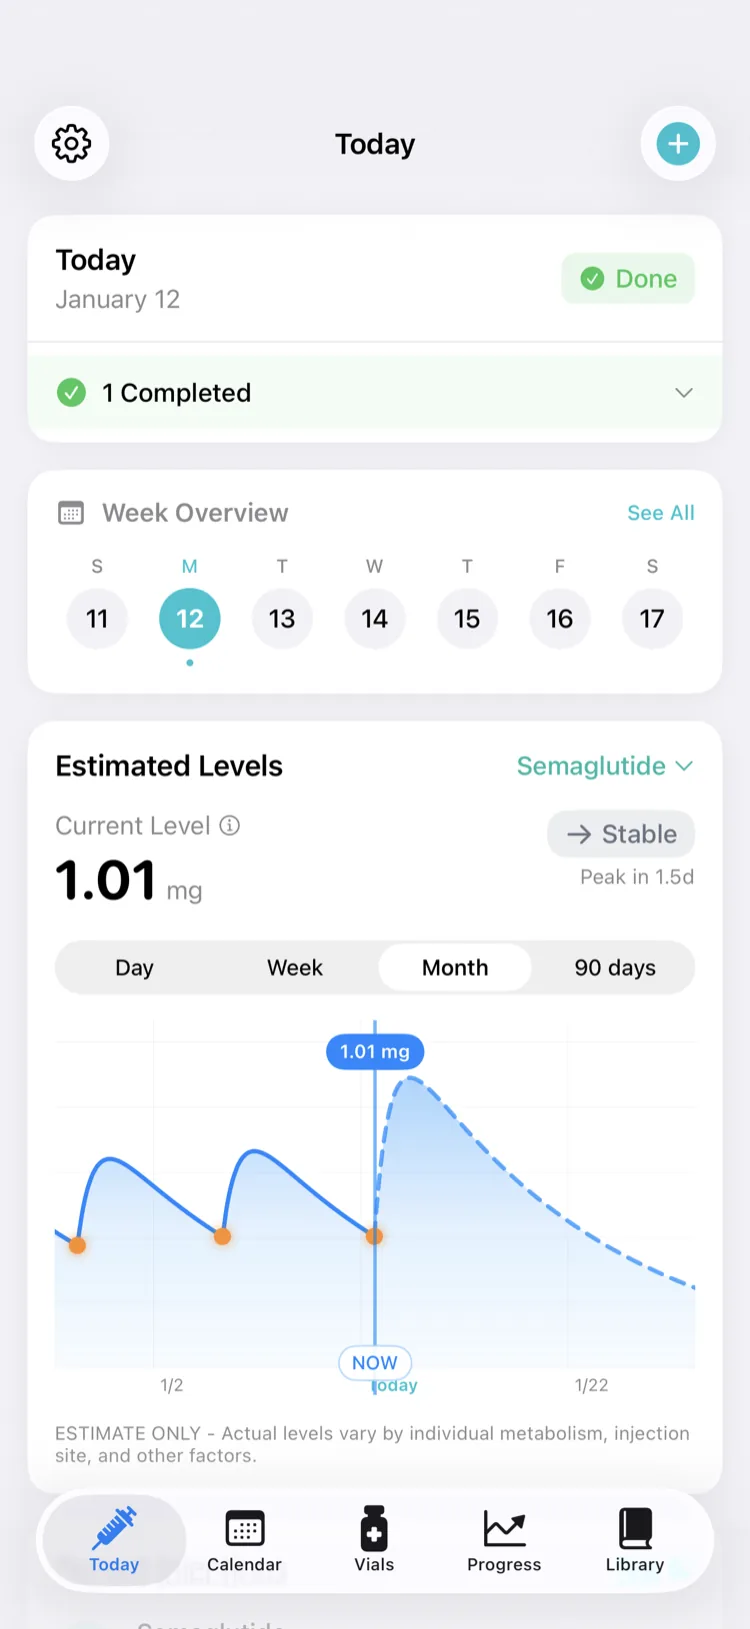
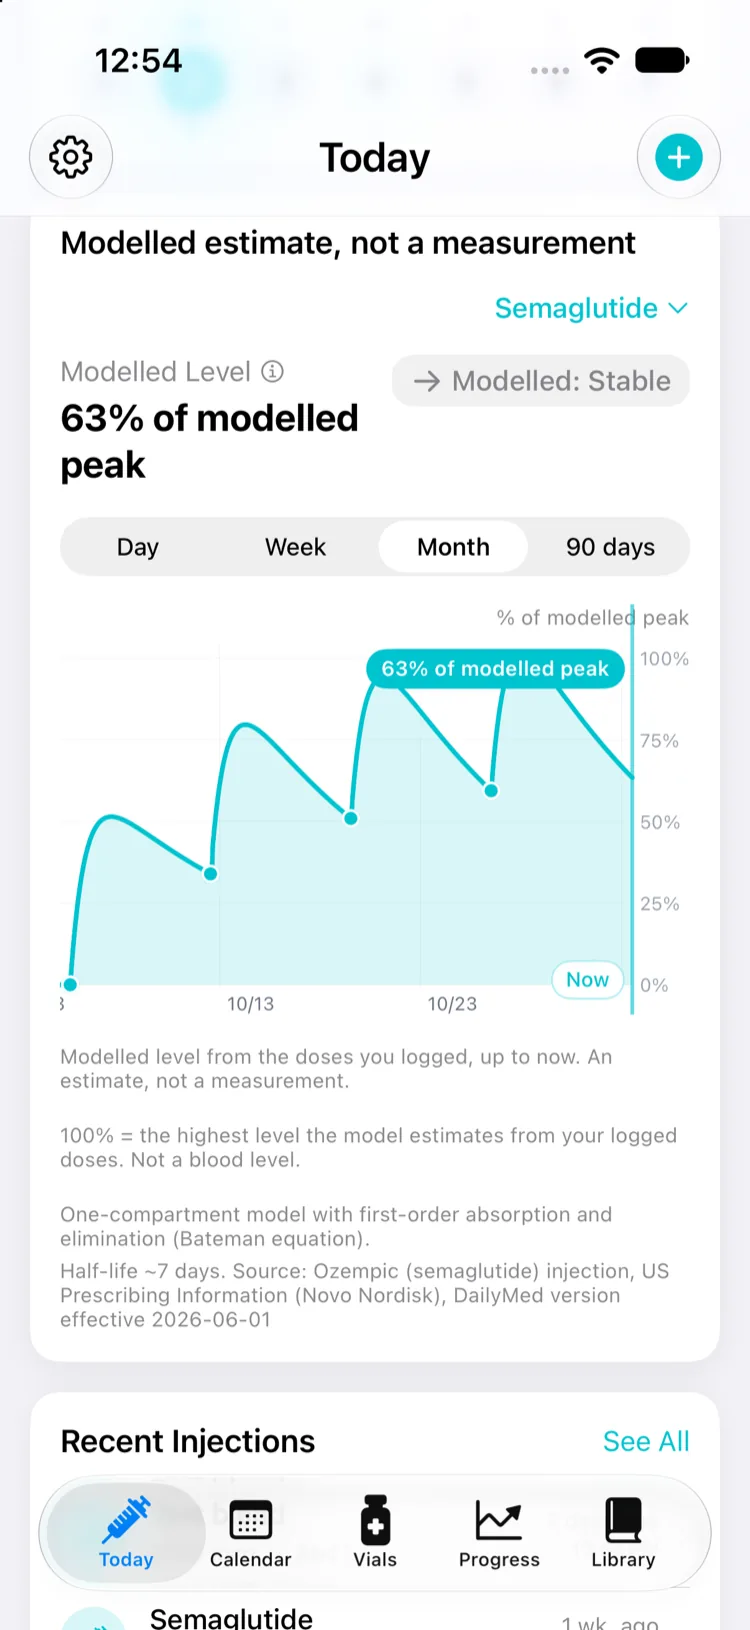
J3 STAGED ONLY (do not publish): swap today.png/.webp to the Jabbit 1.0.5 level-card screenshot (job jabbit_1.0.5_v3 C21, 750x1630, sha256 f935dc09...), index.html:139 alt first half per C21_alt.txt, img height 1629->1630

diff --git a/index.html b/index.html
@@ -136,7 +136,7 @@
       </div>
       <div class="flex justify-center">
         <div class="w-64 rounded-[3rem] bg-gray-900 p-2 shadow-2xl sm:w-72">
-          <picture><source srcset="/images/today.webp" type="image/webp"><img decoding="async" width="750" height="1629" src="/images/today.png" alt="Jabbit Today screen on iPhone: one dose marked done for January 12, a week strip from the 11th to the 17th, and a modelled semaglutide level chart shown as a percentage of the modelled peak, labeled estimate only" fetchpriority="high" class="w-full rounded-[2.5rem]" /></picture>
+          <picture><source srcset="/images/today.webp" type="image/webp"><img decoding="async" width="750" height="1630" src="/images/today.png" alt="Jabbit Today screen on iPhone with sample data, scrolled to the level card: a modelled semaglutide level chart for the past month whose line ends at Now, shown as a percentage of the modelled peak, labeled estimate only" fetchpriority="high" class="w-full rounded-[2.5rem]" /></picture>
         </div>
       </div>
     </div>
@@ -186,7 +186,7 @@
       </div>
       <div class="mt-10 grid grid-cols-2 gap-4 sm:grid-cols-3 md:gap-6 lg:grid-cols-5">
         <figure class="text-center">
-          <div class="rounded-2xl border border-gray-100 bg-white p-2 shadow-sm"><picture><source srcset="/images/today.webp" type="image/webp"><img decoding="async" width="750" height="1629" src="/images/today.png" alt="Jabbit Today screen: today&#39;s completed dose, the week at a glance, and an estimated semaglutide level curve with past doses marked" class="w-full rounded-xl" loading="lazy" /></picture></div>
+          <div class="rounded-2xl border border-gray-100 bg-white p-2 shadow-sm"><picture><source srcset="/images/today.webp" type="image/webp"><img decoding="async" width="750" height="1630" src="/images/today.png" alt="Jabbit Today screen: today&#39;s completed dose, the week at a glance, and an estimated semaglutide level curve with past doses marked" class="w-full rounded-xl" loading="lazy" /></picture></div>
           <figcaption class="mt-3 text-sm font-medium text-gray-700">Today<span class="block text-xs font-normal text-gray-500">Schedule at a glance</span></figcaption>
         </figure>
         <figure class="text-center">
